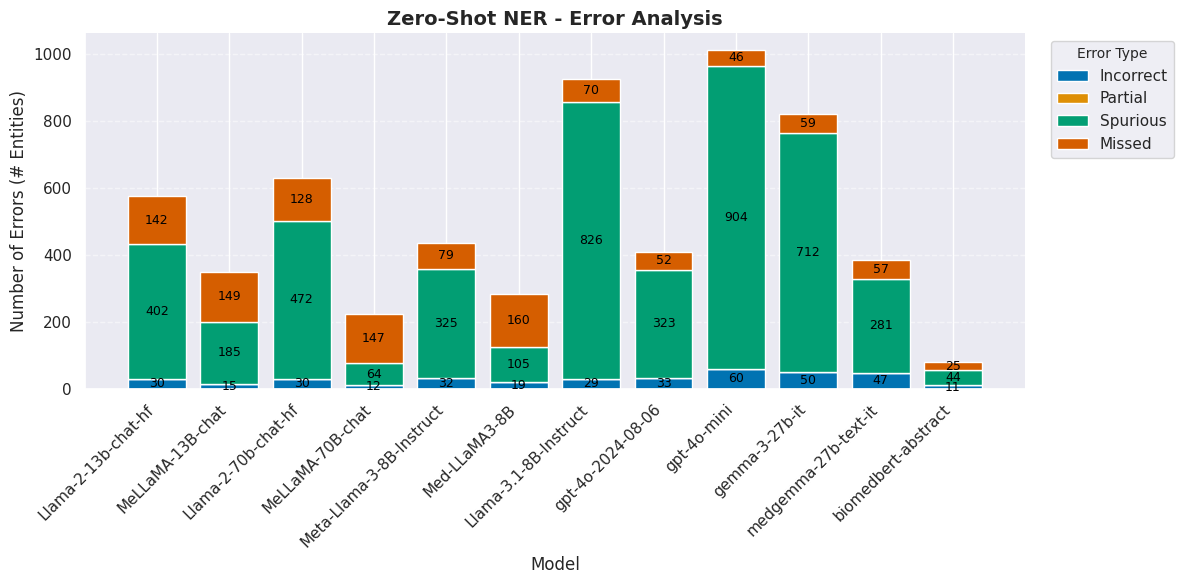
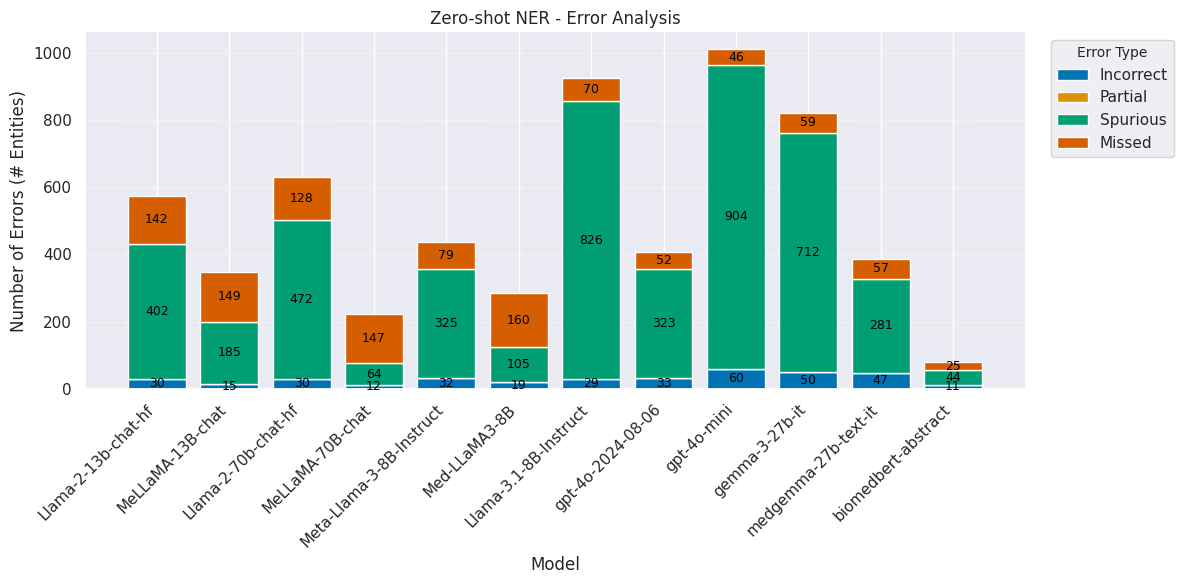
Minor changes to plots

diff --git a/evaluation/evaluate_zero_shot.py b/evaluation/evaluate_zero_shot.py
@@ -372,21 +372,21 @@ def main():
         PREDICTION_DIR, 'ner', 'performance_reports.json'))
     ner_df, ner_df_errors = overall_ner_performance(
         PREDICTION_DIR)
-    make_ner_zero_shot_bar_plot(ner_df, title='Zero-Shot NER Performance',
+    make_ner_zero_shot_bar_plot(ner_df, title='Zero-shot NER Performance',
                                  save_path='zero_shot/ner/overall_ner_performance_barplot.png')
-    make_ner_zero_shot_bar_plot(ner_df, title='Zero-Shot NER Performance', save_path='zero_shot/ner/overall_ner_performance_barplot_f1_precision_recall.png',
+    make_ner_zero_shot_bar_plot(ner_df, title='Zero-shot NER Performance', save_path='zero_shot/ner/overall_ner_performance_barplot_f1_precision_recall.png',
                                  metrics= ['f1 overall - strict','f1 overall - partial', 'f1_entity_type', 
                                            'precision overall - strict',  'precision overall - partial', 'precision_entity_type',
                                            'recall overall - strict', 'recall overall - partial', 'recall_entity_type'])
-    make_ner_error_analysis_plot(ner_df_errors, title='Zero-Shot NER - Error Analysis',
+    make_ner_error_analysis_plot(ner_df_errors, title='Zero-shot NER - Error Analysis',
                                  save_path='zero_shot/ner/overall_ner_error_analysis.png')
 
     df_performance = overall_class_performance(TASKS, PREDICTION_DIR)
-    make_performance_box_plot(df_performance, 'Zero-Shot Performance Across Tasks',
+    make_performance_box_plot(df_performance, 'Zero-shot Performance Across Classification Tasks',
                               save_path='zero_shot/overall_performance_boxplot.png')
-    make_performance_spider_plot(df_performance, 'Zero-Shot Performance Across Tasks',
+    make_performance_spider_plot(df_performance, 'Zero-shot Performance Across Classification Tasks',
                                  save_path='zero_shot/overall_performance_spiderplot.png')
-    make_zero_shot_scatter_plot(df_performance, title='Zero-Shot Performance Across Tasks',
+    make_zero_shot_scatter_plot(df_performance, title='Zero-shot Performance Across Classification Tasks',
                                  save_path='zero_shot/overall_performance_scatterplot.png')
     averaged_performance = df_performance.groupby(
         'model')['performance'].mean().reset_index()
